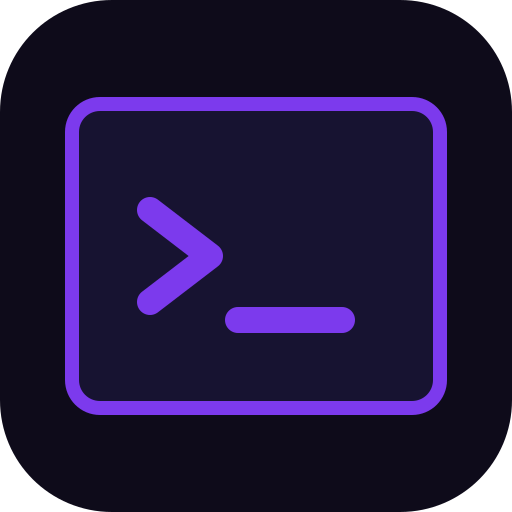
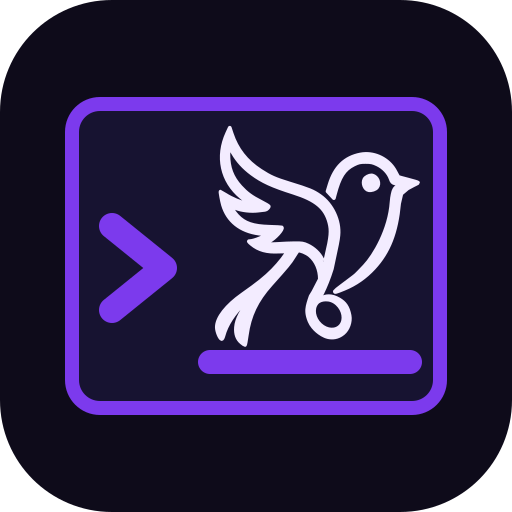
Icono con el pajarito de Dotrino dentro de la terminal (0.13.8; Android 53, iOS 54)

Changed region(s): [[0.375, 0.25, 0.8438, 0.75], [0.1875, 0.375, 0.4375, 0.625]]

diff --git a/public/sw.js b/public/sw.js
@@ -1,7 +1,7 @@
 // Service worker estándar del ecosistema (§3): navegación network-first (los
 // deploys se ven al instante; offline cae a caché), resto cache-first con refresco
 // en segundo plano. Subir N de CACHE en cada cambio de assets cacheados.
-const CACHE = 'terminal-v45';
+const CACHE = 'terminal-v46';
 const ASSETS = [
   '/',
   '/consoles/',
